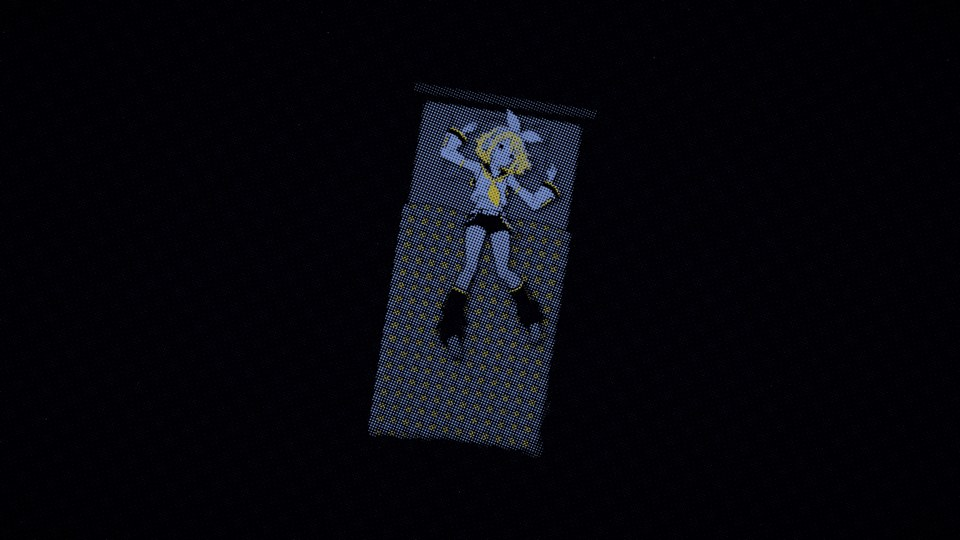
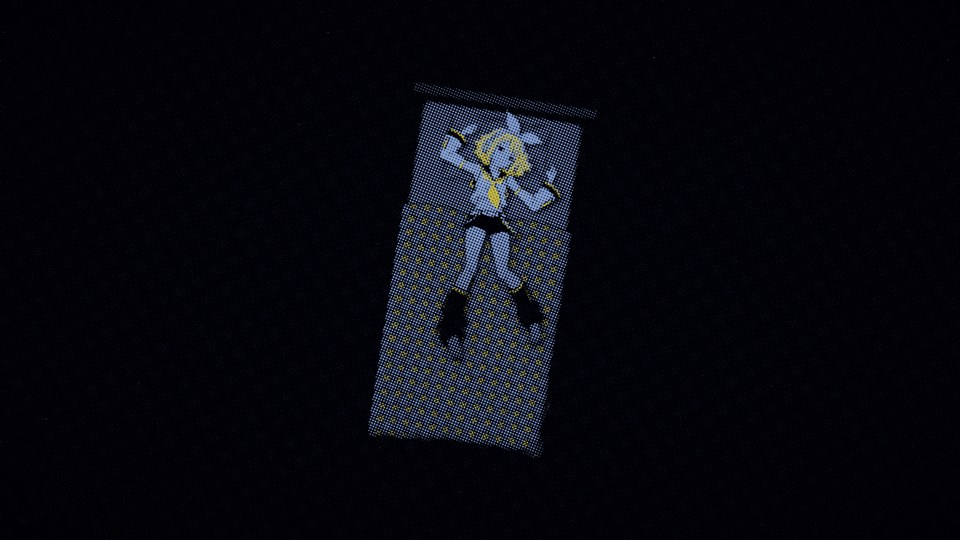
Refresh the README gallery from the eleventh cut
The stills now show the new shots: her on the bed as the opening push lands,
the lighter at a strike, her curled on the floor at 0:49 and the TV wall. The
bridge loop shows the set tuning in to her as she waves, and the hero's void
tile is her on the bed in the dark room. The old tile showed a frozen frame
with a speck of her.

Changed region(s): [[0.4375, 0.2074, 0.5938, 0.4444], [0.5, 0.5037, 0.5625, 0.5333]]

diff --git a/src/tools/make_gallery.py b/src/tools/make_gallery.py
@@ -18,9 +18,9 @@ sys.path.insert(0, str(ROOT / "src" / "comp"))
 OUT = ROOT / "docs" / "images"
 FPS = 24
 
-HERO = [21.5, 88.0, 117.6, 194.8, 244.0, 322.9]          # seconds, read left to right, top to bottom
+HERO = [21.5, 88.0, 117.6, 194.8, 233.5, 322.9]          # seconds, read left to right, top to bottom
 STILLS = [17.2, 43.6, 52.6, 79.0, 104.2, 134.0, 207.8, 262.4, 312.0]
-LOOPS = {"loop_opening": (6.4, 2.6), "loop_chorus": (77.6, 2.6), "loop_bridge": (194.0, 2.6)}
+LOOPS = {"loop_opening": (6.4, 2.6), "loop_chorus": (77.6, 2.6), "loop_bridge": (192.6, 2.1)}
 # before / after pairs for the making-of notes: the seventh cut's frame (kept in work/qc/before7) beside
 # the same shot of this film (at t_after, after any dissolve into it), both cropped to the part the note
 # is about (x, y, w, h at 1920 x 1080) and clear of the old frame's lyrics
